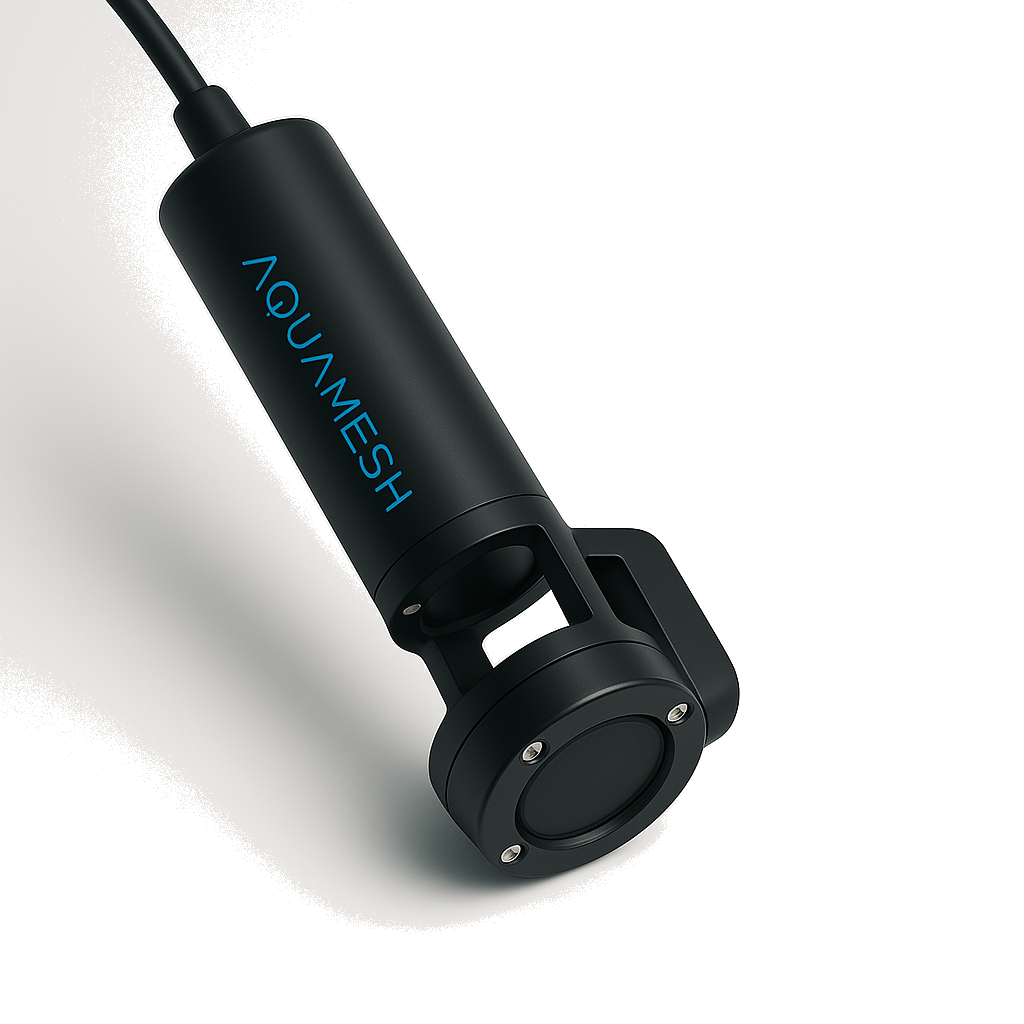
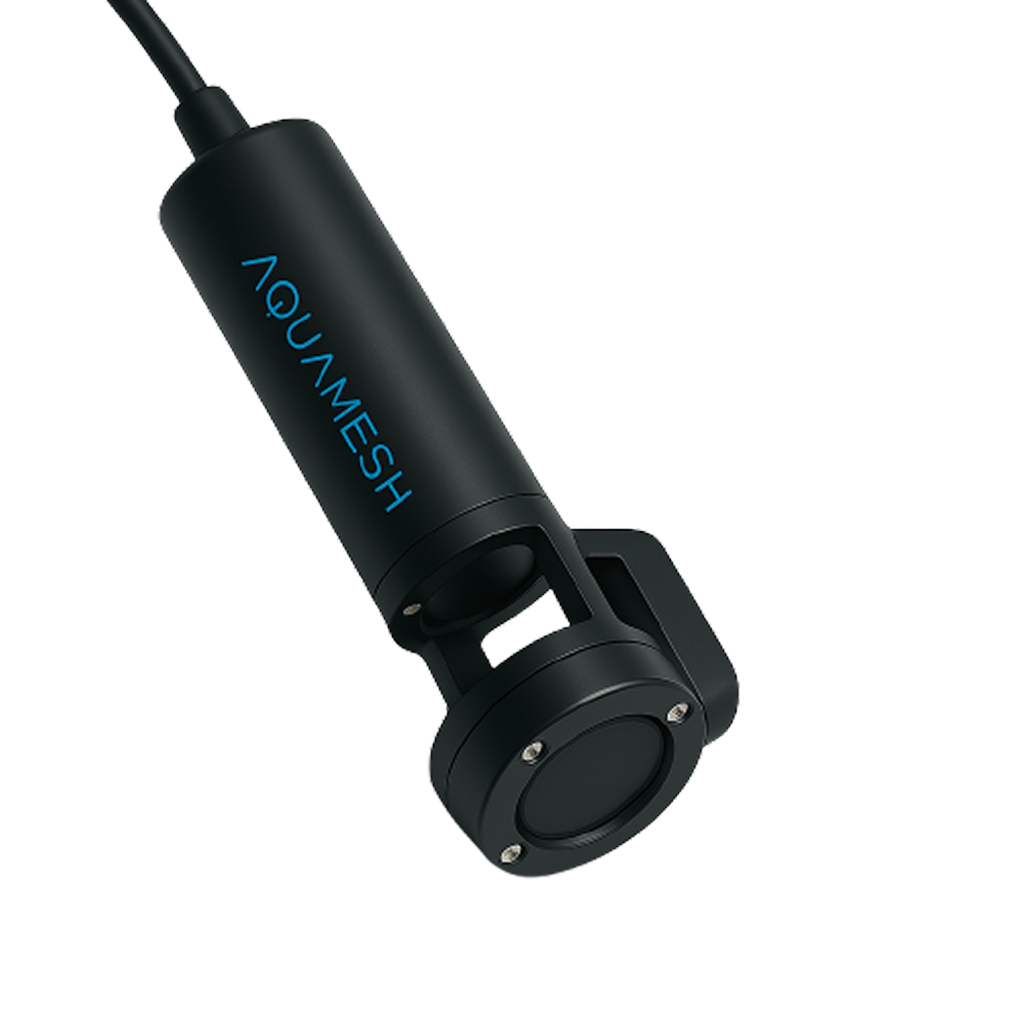
product learn more page

diff --git a/products/aquaspectra.html b/products/aquaspectra.html
@@ -1,0 +1,208 @@
+<!DOCTYPE html>
+<html lang="en">
+<head>
+  <meta charset="UTF-8" />
+  <meta name="viewport" content="width=device-width, initial-scale=1.0"/>
+  <title>AquaSpectra™ Sensor | AquaMesh</title>
+
+  <!-- Bootstrap CSS -->
+  <link href="https://cdn.jsdelivr.net/npm/bootstrap@5.3.3/dist/css/bootstrap.min.css" rel="stylesheet">
+  <!-- Google Fonts -->
+  <link href="https://fonts.googleapis.com/css2?family=Poppins:wght@300;400;500;600;700&display=swap" rel="stylesheet">
+  <!-- Font Awesome -->
+  <link rel="stylesheet" href="https://cdnjs.cloudflare.com/ajax/libs/font-awesome/6.5.1/css/all.min.css">
+  <!-- AOS CSS -->
+  <link href="https://cdn.jsdelivr.net/npm/aos@2.3.4/dist/aos.css" rel="stylesheet">
+  <!-- Custom CSS -->
+  <link rel="stylesheet" href="../assets/css/style.css">
+  <link rel="icon" href="../assets/images/favicon.png" type="image/png">
+  <meta name="description" content="AquaSpectra™ Sensor - High-precision water quality detection by AquaMesh.">
+  <style>
+    body {
+      background: linear-gradient(to bottom, #001219, #0a9396);
+      color: #fff;
+      font-family: 'Poppins', sans-serif;
+      overflow-x: hidden;
+      margin: 0;
+      padding: 0;
+    }
+    .container, .container-fluid {
+      padding-left: 0 !important;
+      padding-right: 0 !important;
+      margin-left: auto;
+      margin-right: auto;
+    }
+    .hero-dark {
+      min-height: 100vh;
+      display: flex;
+      flex-direction: column;
+      justify-content: center;
+      align-items: center;
+      text-align: center;
+      position: relative;
+    }
+    .hero-dark h1 {
+      font-size: 1.6rem;
+      letter-spacing: 4px;
+      text-transform: uppercase;
+      color: #ccc;
+      margin-bottom: 2rem;
+    }
+    .sensor-wrapper {
+      position: relative;
+      width: 300px;
+      margin: 0 auto;
+      filter: drop-shadow(0 5px 20px rgba(0,0,0,0.3));
+    }
+    .sensor-main {
+      display: block;
+      width: 100%;
+      z-index: 2;
+      position: relative;
+      animation: floatUpDown 4s ease-in-out infinite;
+    }
+    .sensor-reflection {
+      display: block;
+      width: 100%;
+      transform: scaleY(-1);
+      opacity: 0.2;
+      filter: blur(2px);
+      position: relative;
+      margin-top: -30px;
+      z-index: 1;
+    }
+    .ripple-overlay {
+      position: absolute;
+      top: 80%;
+      left: 50%;
+      transform: translateX(-50%);
+      width: 160px;
+      height: 160px;
+      background: radial-gradient(circle, rgba(160, 233, 255, 0.4) 30%, transparent 70%);
+      border-radius: 50%;
+      animation: ripplePulse 3s ease-in-out infinite;
+      z-index: 0;
+    }
+    @keyframes floatUpDown {
+      0%, 100% { transform: translateY(0); }
+      50% { transform: translateY(10px); }
+    }
+    @keyframes ripplePulse {
+      0%, 100% { transform: translateX(-50%) scale(1); opacity: 0.5; }
+      50% { transform: translateX(-50%) scale(1.2); opacity: 0.3; }
+    }
+    .feature-section {
+      background: #002f35;
+      padding: 4rem 0;
+      margin: 0;
+    }
+    .feature-box {
+      background: #014751;
+      padding: 2rem;
+      border-radius: 12px;
+      text-align: center;
+      color: #e0f7f7;
+      transition: all 0.3s ease;
+      height: 100%;
+    }
+    .feature-box:hover {
+      background-color: #026873;
+      transform: translateY(-5px);
+    }
+    .feature-box i {
+      font-size: 2rem;
+      margin-bottom: 1rem;
+      color: #0af;
+    }
+    footer {
+      background: #001219;
+      padding: 2rem 0;
+      color: #ccc;
+      font-size: 0.9rem;
+      margin: 0;
+    }
+  </style>
+</head>
+<body>
+
+<!-- White Navigation Bar -->
+<nav class="navbar navbar-expand-lg navbar-light bg-white sticky-top shadow-sm py-3">
+    <div class="container">
+      <a class="navbar-brand" href="../index.html#home">
+        <img src="../assets/images/aquameshlogo.png" alt="AquaMesh Logo" style="height: 32px;">
+      </a>
+      <button class="navbar-toggler" type="button" data-bs-toggle="collapse" data-bs-target="#navbarNav"
+        aria-controls="navbarNav" aria-expanded="false" aria-label="Toggle navigation">
+        <span class="navbar-toggler-icon"></span>
+      </button>
+      <div class="collapse navbar-collapse" id="navbarNav">
+        <ul class="navbar-nav ms-auto align-items-center">
+          <li class="nav-item">
+            <a class="nav-link" href="../index.html#home">Home</a>
+          </li>
+          <li class="nav-item">
+            <a class="nav-link" href="../index.html#partners">Partners</a>
+          </li>
+          <li class="nav-item">
+            <a class="nav-link" href="../index.html#about">About Us</a>
+          </li>
+          <li class="nav-item">
+            <a class="nav-link" href="../index.html#products">Products</a>
+          </li>
+          <li class="nav-item">
+            <a class="btn btn-primary btn-sm text-white ms-3" href="../index.html#contact">Contact Us</a>
+          </li>
+          <li class="nav-item">
+            <a class="btn text-white ms-3" href="../preorder.html" style="background-color: orange; font-size: 1.1rem; padding: 0.5rem 1rem;">Preorder</a>
+          </li>
+        </ul>
+      </div>
+    </div>
+  </nav>
+  
+  
+  <!-- Hero Section -->
+  <section class="hero-dark">
+    <h1>THE NEXT GENERATION OF WATER SENSING</h1>
+    <div class="sensor-wrapper">
+      <img src="../assets/images/probelanding_fully_clean.png" alt="AquaSpectra Sensor" class="sensor-main" />
+      <img src="../assets/images/probelanding_fully_clean.png" alt="Reflection" class="sensor-reflection" />
+      <div class="ripple-overlay"></div>
+    </div>
+  </section>
+
+  <!-- Feature Section -->
+  <section class="feature-section">
+    <div class="container">
+      <div class="row g-4">
+        <div class="col-md-4">
+          <div class="feature-box">
+            <i class="fas fa-vial"></i>
+            <h5>Fluorescence & Absorbance</h5>
+            <p>Detect organic compounds and nutrients with dual-mode optical sensing.</p>
+          </div>
+        </div>
+        <div class="col-md-4">
+          <div class="feature-box">
+            <i class="fas fa-tint"></i>
+            <h5>Turbidity Measurement</h5>
+            <p>Monitor water clarity using IR-based suspended solids detection.</p>
+          </div>
+        </div>
+        <div class="col-md-4">
+          <div class="feature-box">
+            <i class="fas fa-cogs"></i>
+            <h5>Modular Design</h5>
+            <p>Interchangeable cartridges allow flexible use for different environments.</p>
+          </div>
+        </div>
+      </div>
+    </div>
+  </section>
+
+  <!-- Footer -->
+  <footer class="text-center">
+    &copy; 2025 AquaMesh. All rights reserved.
+  </footer>
+</body>
+</html>

diff --git a/index.html b/index.html
@@ -204,6 +204,8 @@
           <li class="mb-2"><i class="fas fa-check-circle text-success me-2"></i> Extended battery life</li>
         </ul>
         <a href="#preorder" class="btn btn-primary mt-3" data-aos="zoom-in" data-aos-delay="300">Preorder Now</a>
+        <a href="products/aquaspectra.html" class="btn btn-primary mt-3">Learn More</a>
+
       </div>
     
       <div class="col-lg-6 text-center position-relative" data-aos="fade-left">
@@ -329,12 +331,11 @@
   
   
 
-  <!-- Call to Action -->
   <section id="contact" class="cta">
-    <div class="container">
-      <h2 class="section-title">Contact Us</h2>
+    <div class="container-fluid px-0">
       <div class="row justify-content-center">
-        <div class="col-md-8 col-lg-6">
+        <div class="col-md-10 col-lg-6">
+          <h2 class="section-title text-center mb-4">Contact Us</h2>
           <div class="card shadow">
             <div class="card-body p-4">
               <form>
@@ -356,7 +357,7 @@
                 <div class="mb-3">
                   <textarea class="form-control" rows="4" placeholder="Your Message"></textarea>
                 </div>
-                <button type="submit" class="btn btn-primary w-100">Get in Touch</button>
+                <button type="submit" class="btn btn-light w-100 text-dark">Get in Touch</button>
               </form>
             </div>
           </div>
@@ -364,6 +365,7 @@
       </div>
     </div>
   </section>
+  
 
   <!-- Footer -->
   <footer class="footer">

diff --git a/assets/css/style.css b/assets/css/style.css
@@ -33,6 +33,8 @@
 }
 
 body {
+    margin: 0;
+    padding: 0;
     font-family: 'Poppins', sans-serif;
     color: #333;
     overflow-x: hidden;
@@ -786,5 +788,52 @@ section {
     z-index: 0;
     border-radius: 50%;
     filter: blur(30px);
+  }
+  
+
+
+
+
+
+
+
+  /* Contact Section fix */
+#contact {
+    background-color: #0a9396;
+    color: white;
+    padding: 4rem 0;
+    width: 100%;
+  }
+  
+  /* Cookie Banner fix */
+  #cookie-banner {
+    background-color: #0a9396;
+    color: white;
+    text-align: center;
+    padding: 1rem;
+    width: 100%;
+    position: fixed;
+    bottom: 0;
+    left: 0;
+    z-index: 9999;
+  }
+  
+  #cookie-banner a {
+    color: white;
+    text-decoration: underline;
+  }
+  
+  #accept-cookies {
+    background-color: #005f73;
+    border: none;
+    color: white;
+    padding: 0.5rem 1.5rem;
+    margin-top: 0.5rem;
+  }
+  
+  /* Optional: remove margins on body to eliminate white space on sides */
+  body {
+    margin: 0;
+    padding: 0;
   }
   
